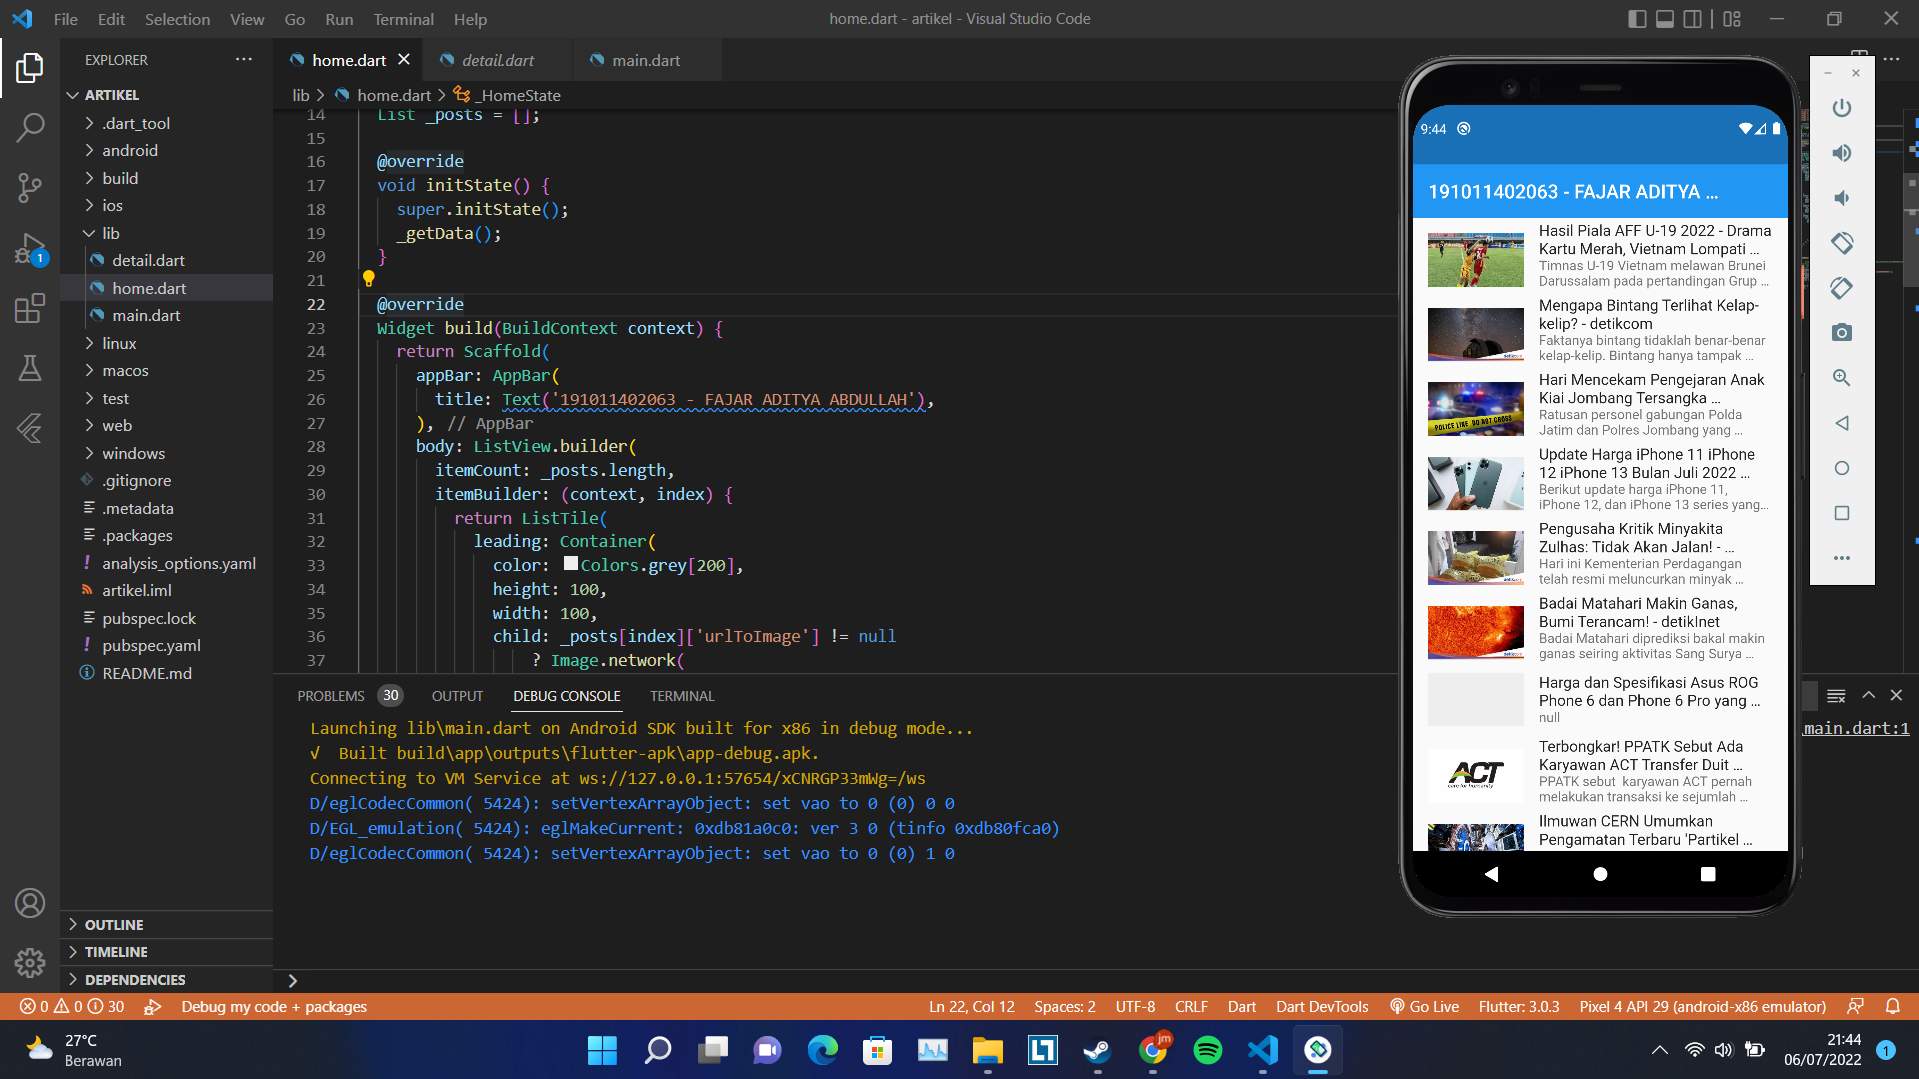
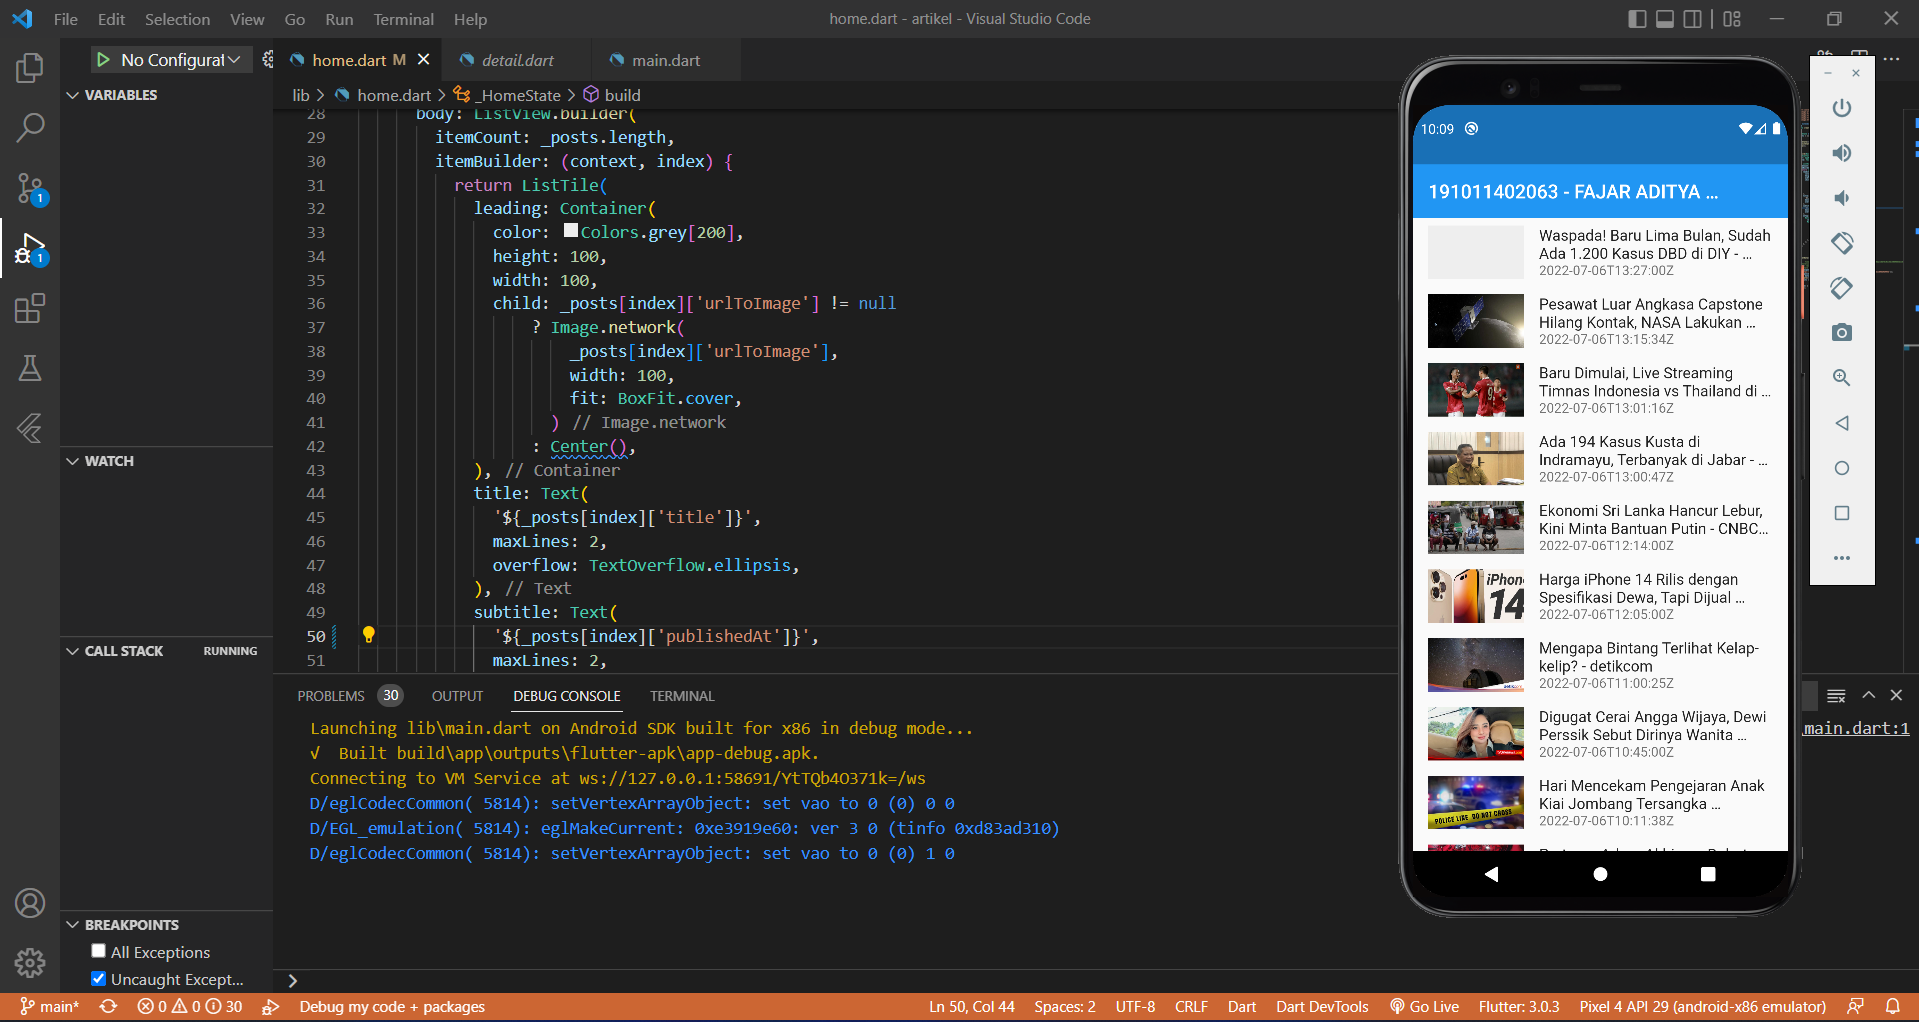
UAS

diff --git a/lib/home.dart b/lib/home.dart
@@ -47,7 +47,7 @@ class _HomeState extends State<Home> {
               overflow: TextOverflow.ellipsis,
             ),
             subtitle: Text(
-              '${_posts[index]['description']}',
+              '${_posts[index]['publishedAt']}',
               maxLines: 2,
               overflow: TextOverflow.ellipsis,
             ),
